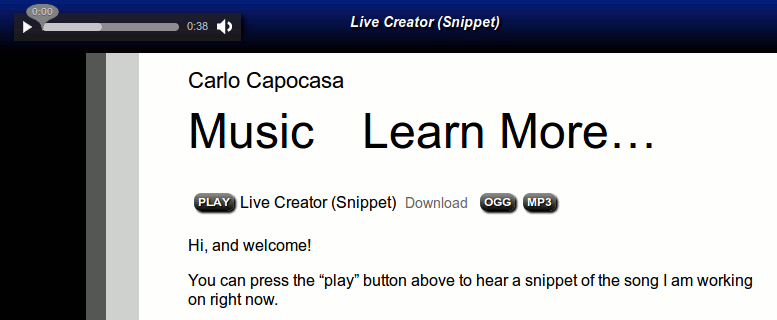
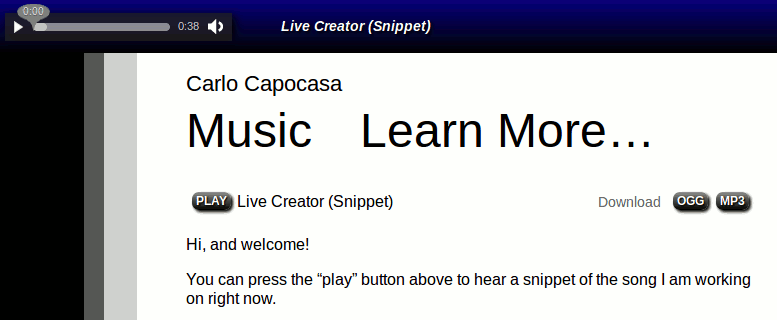
CSS Fix IE9, 1.0 release preparations
git-svn-id: http://plugins.svn.wordpress.org/audiobar/trunk@414235 b8457f37-d9ea-0310-8a92-e5e31aec5664

diff --git a/templates/audiobar-buttons-css.php b/templates/audiobar-buttons-css.php
@@ -1,5 +1,3 @@
-<?php
-?>
 <style type="text/css">
 
 span.audiobar_container {
@@ -41,7 +39,6 @@ a.audiobar_download {
 	font-weight: bold;
 	background: -webkit-gradient(linear, left top, left bottom, from(<?php echo $audiobar_button_gradient_1 ?>), to(<?php echo $audiobar_button_gradient_2 ?>));
 	background: -moz-linear-gradient(top,  <?php echo $audiobar_button_gradient_1 ?>,  <?php echo $audiobar_button_gradient_2 ?>);
-	filter:  progid:DXImageTransform.Microsoft.gradient(startColorstr='<?php echo $audiobar_button_gradient_1 ?>', endColorstr='<?php echo $audiobar_button_gradient_2 ?>');
 	display: inline-block;
 	margin-bottom: 4px;
 }
@@ -50,7 +47,6 @@ a.audiobar_play:hover {
 	background: <?php echo $audiobar_button_hilite_gradient_1 ?>;
 	background: -webkit-gradient(linear, left top, left bottom, from(<?php echo $audiobar_button_hilite_gradient_1 ?>), to(<?php echo $audiobar_button_hilite_gradient_2 ?>));
 	background: -moz-linear-gradient(top,  <?php echo $audiobar_button_hilite_gradient_1 ?>,  <?php echo $audiobar_button_hilite_gradient_2 ?>);
-	filter:  progid:DXImageTransform.Microsoft.gradient(startColorstr='<?php echo $audiobar_button_hilite_gradient_1 ?>', endColorstr='<?php echo $audiobar_button_hilite_gradient_2 ?>');
 }
 a.audiobar_downloadtext {
 	color:#666666;
@@ -92,4 +88,17 @@ div.audiobar_restore_notice {
 }
 
 </style>
+
+<!--[if lte IE 8.0]>
+<style>
+a.audiobar_play,
+a.audiobar_download {
+	filter:  progid:DXImageTransform.Microsoft.gradient(startColorstr='<?php echo $audiobar_button_gradient_1 ?>', endColorstr='<?php echo $audiobar_button_gradient_2 ?>');
+}
+a.audiobar_play,
+a.audiobar_download {	
+  filter:  progid:DXImageTransform.Microsoft.gradient(startColorstr='<?php echo $audiobar_button_hilite_gradient_1 ?>', endColorstr='<?php echo $audiobar_button_hilite_gradient_2 ?>');
+}
+</style>
+<![endif]-->
 

diff --git a/audiobar-container.php b/audiobar-container.php
@@ -156,7 +156,11 @@
 			}
 		},
 		should_force_flash: function (extensions) {
-		  // Force flash if the browser needs ogg and no ogg is provided
+      var a = document.createElement('audio');
+		  
+      // Force flash for so-so audio tag implentations
+      //return true;
+      // Force flash if the browser needs ogg and no ogg is provided
 		  if (extensions.length == 0) {
 		    return false;
 		  }
@@ -165,7 +169,6 @@
 		      return false;
 		    }
 		  }
-		  var a = document.createElement('audio');
 		  if (a.canPlayType && a.canPlayType('audio/mp3')) {
 		    return false;
 		  }

diff --git a/audiobar.php b/audiobar.php
@@ -3,7 +3,7 @@
 Plugin Name: Audiobar
 Plugin URI: http://carlocapocasa.com/tech/audiobar
 Description: Audiobar is a stylish audio player bar that continues playing when visitors browse.
-Version: 0.9.3 beta
+Version: 1.0
 Author: Carlo Capocasa
 Author URI: http://carlocapocasa.com
 License: GPL2
